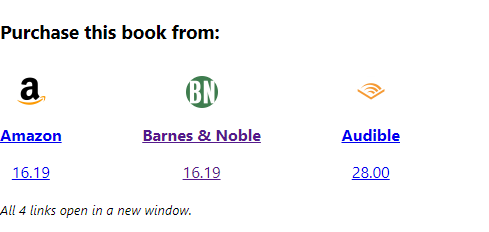
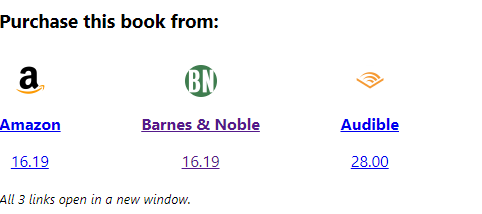
notes

diff --git a/notes/08-render-content-based-on-a-number-using-react-intl-formatted-message.md b/notes/08-render-content-based-on-a-number-using-react-intl-formatted-message.md
@@ -1,3 +1,92 @@
 # Render Content Based on a Number using react-intl FormattedMessage
 
 **[📹 Video](https://egghead.io/lessons/react-render-content-based-on-a-number-using-react-intl-formattedmessage)**
+
+## Making our Messages More Friendly ⚡
+Currently, no matter how many reviews a book has, our app always renders the number of reviews, then the word reviews.
+
+![Reviews Before](images/08-render-content-based-on-a-number-using-react-intl-formatted-message-reviews-beforee.png)
+
+We can make this more friendly by first changing our `avgRating` variable in **src/components/BookDetail.js**. Let's have the variable evaluate to what it is now when `book.reviews.length` is true (when there are book reviews), and have it evaluate to 0 when `book.reviews.length` is false (there are no book reviews).
+
+### BookDetail.js
+```js
+const avgRating = book.reviews.length ? round(meanBy(book.reviews, (r) => r.rating), 2) : 0;
+```
+
+Now, let's head down to our average rating `FormattedMessage` component and pass another object into `values` with key `count` and value `book.reviews.length`. Furthermore, we'll delete the text in the parenthesis that follows it.
+
+### BookDetail.js
+```js
+<h3>
+    <FormattedMessage id="detail.averageRating" values={{avg: avgRating, count: book.reviews.length}} />
+</h3>
+``` 
+
+Back in our **src/messages.js**, we'll put our new `count` value with a placeholder in the `averageRating` message. We're also going to include the keyword `plural`, which will allow us to conditionally render messages based on the value of `count`.
+
+### messages.js
+```js
+averageRating: 'Average Rating: {avg} ({count, plural, =0 {No Reviews Yet!} one {# Review} other {# Reviews}})',
+```
+
+To the right of the comma next to `plural`, we're conditionally rendering messages based on the value of `count`.
+
+- `=0 {No Reviews Yet!}` tells react-intl to display "No Reviews Yet!" when `count` is 0
+- `one {# Review}` tells react-intl to display a message when `count` is 1. The `#` symbol is a placeholder for the value of `count`, so in this case the message displayed would be "1 Review"
+- `other {# Reviews}` tells react-intl to display a message when `count` is neither of the previously described conditions (0 or 1). `#` is a placeholder for the value of `count`, so the message will be "{value of count} Reviews".
+
+Now we should add this functionality to the other languages:
+### messages.js
+```js
+export default {
+  'en-US': {
+    detail: {
+      author: 'by {author}',
+      toggle: 'Toggle',
+      purchase: 'Purchase this book from:',
+      window: '<small><em>All {numMerchants} links open in a new window.</em></small>',
+      reviewsHeading: 'Reviews',
+      averageRating: 'Average Rating: {avg} ({count, plural, =0 {No Reviews Yet!} one {# Review} other {# Reviews}})',
+      userRating: '{name} rated it: {rating} out of 5'
+    }
+  },
+  'es': {
+    detail: {
+      author: 'de {author}',
+      toggle: 'Palanca',
+      purchase: 'Compre este libro de:',
+      window: '<small><em>Los {numMerchants} enlaces se abren en una nueva ventana.</em></small>',
+      reviewsHeading: 'Comentarios',
+      averageRating: 'Puntuación media: {avg} ({count, plural, =0 {No hay comentarios todavía!} one {# Crítica} other {# Críticas}})',
+      userRating: '{name} clasificado: {rating} de 5'
+    }
+  },
+  'fr': {
+    detail: {
+      author: 'par {author}',
+      toggle:'Basculer',
+      purchase: 'Achetez ce livre à partir de:',
+      window: '<small><em>Les {numMerchants} liens s\'ouvrent dans une nouvelle fenêtre.</em></small>',
+      reviewsHeading: 'Avis',
+      averageRating: 'Note moyenne: {avg} ({count, plural, =0 {Pas encore de commentaires!} one {# La revue} other {# Avis}})',
+      userRating: '{name} L\'a noté: {rating} sur 5'
+    }
+  }
+}
+```
+
+Now if we start our development server,
+```bash
+yarn start
+```
+And navigate to our localhost port, we should see that our average rating message is properly displayed for any number of reviews on any supported language.
+
+### Many Reviews, Different Languages
+![Conditional Reviews Many](images/08-render-content-based-on-a-number-using-react-intl-formatted-message-conditional-reviews-many.png)
+
+### No Reviews
+![Zero Reviews](images/08-render-content-based-on-a-number-using-react-intl-formatted-message-zero-reviews.png)
+
+## Resources 📖
+- [FormattedMessage Plural Format - react-intl](https://formatjs.io/docs/icu-syntax#plural-format)

diff --git a/notes/07-format-numbers-with-separators-and-currency-symbols-using-react-intl-formatted-number.md b/notes/07-format-numbers-with-separators-and-currency-symbols-using-react-intl-formatted-number.md
@@ -18,7 +18,9 @@ import {
 
 In this lesson, the instructor has gone ahead and changed the **books.json** file so that the `price` key of each book is an object containing a price for each supported locale. Therefore, we must also change our **src/books.json** to match the instructor's. 
 
-### books.json
+<details>
+<summary> books.json - time to paste a lot again. </summary>
+
 ```json
 [
   {
@@ -563,3 +565,53 @@ In this lesson, the instructor has gone ahead and changed the **books.json** fil
   }
 ]
 ```
+</details>
+
+Now, in our `BookDetail` component, we're going to use the same function to grab the user's locale that we used in our **src/index.js**.
+
+### BookDetail.js
+```jsx
+const BookDetail = ({match}) => {
+  const book = books.find(book => book.id === parseInt(match.params.bookId, 10));
+  const sortedReviews = sortBy(book.reviews, 'date').reverse();
+  const avgRating = round(meanBy(book.reviews, (r) => r.rating), 2)
+
+  let locale = (navigator.languages && navigator.languages[0])
+             || navigator.language
+             || navigator.userLanguage
+             || 'en-US';
+...
+```
+We can now get rid of the `merchant.price` text in this component and replace it with a `FormattedNumber` component. Here we're going to pass in a `value` prop and provide it with `merchant.price[locale]` in order to display the correct price based on the user locale.
+
+```jsx
+...
+
+<p>
+  <FormattedNumber value={merchant.price[locale]} />
+</p>
+
+...
+```
+
+We can also pass in a `style` prop with value `currency` and a `currencyDisplay` prop with value `symbol` to display the correct currency symbol on our page. Finally we'll pass in a `currency` prop and have it conditionally be provided `'USD'` if `locale` is `'en-US'`, or `'EUR'` otherwise.
+
+```jsx
+<FormattedNumber
+  value={merchant.price[intl.locale]}
+  style="currency"
+  currencyDisplay="symbol" 
+  currency={intl.locale === 'en-US' ? 'USD' : 'EUR'}
+/>
+```
+
+We can start our development server,
+```bash
+yarn start
+```
+And navigate to the localhost port to see that our price is displayed with the correct currency symbol for the locale.
+
+![Currency](images/07-format-numbers-with-separators-and-currency-symbols-using-react-intl-formatted-number-currency.png)
+
+## Resources 📖
+- [FormattedNumber - react-intl](https://formatjs.io/docs/react-intl/components/#formattednumber)

diff --git a/notes/04-render-content-with-markup-using-react-intl-formatted-html-message.md b/notes/04-render-content-with-markup-using-react-intl-formatted-html-message.md
@@ -64,7 +64,7 @@ Now, to render the markdown in our message correctly, we can use a `FormattedMes
     ))}
 </div>
 // New Message
-<FormattedMessage id="detail.window" values={{numMerchants: book.reviews.length, small: chunks => <small>{chunks}</small>, em: chunks => <em>{chunks}</em>}} />
+<FormattedMessage id="detail.window" values={{numMerchants: book.merchants.length, small: chunks => <small>{chunks}</small>, em: chunks => <em>{chunks}</em>}} />
 
 ...
 ```

diff --git a/notes/02-convert-a-hard-coded-string-using-react-intl-formatted-message.md b/notes/02-convert-a-hard-coded-string-using-react-intl-formatted-message.md
@@ -360,7 +360,7 @@ Next, edit **src/App.css** to be as follows:
 
 </details>
 
-Finally, created a file within **src** called **books.json**, and paste the following within:
+Finally, create a file within **src** called **books.json**, and paste the following within:
 
 <details>
 <summary> books.json </summary>
